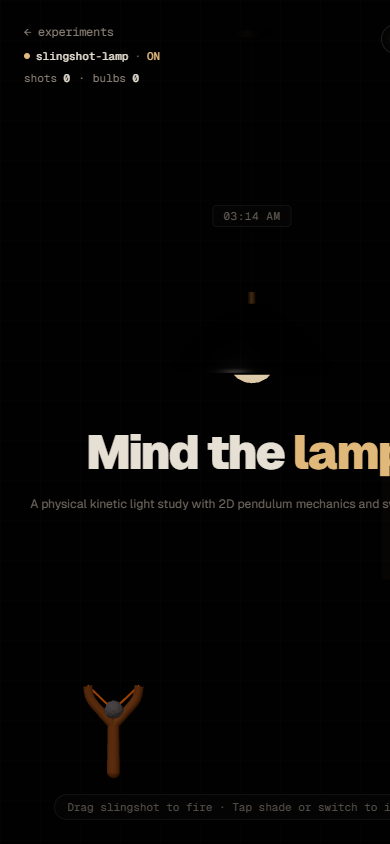
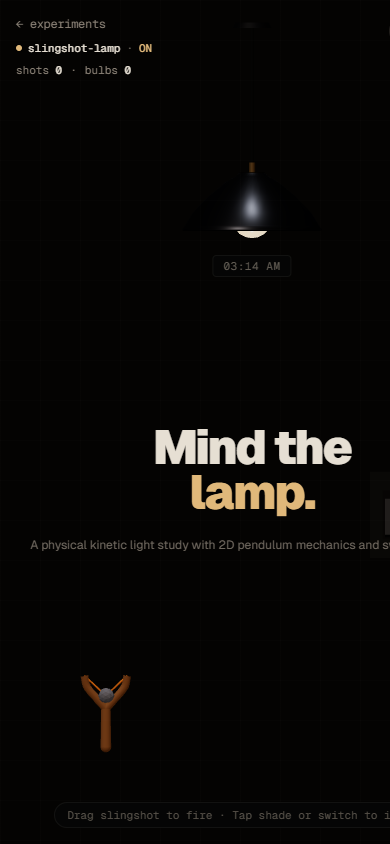
feat: add LampExperience and LampHUD components for interactive 3D lamp scene

diff --git a/src/components/lamp/LampExperience.tsx b/src/components/lamp/LampExperience.tsx
@@ -103,7 +103,7 @@ export const LampExperience: React.FC = () => {
       </div>
 
       {/* Bottom Monospace Interaction Instructions */}
-      <footer className="absolute inset-x-0 bottom-0 p-6 md:p-8 flex justify-center items-center pointer-events-none z-20 font-mono text-[11px] text-muted/60 text-center">
+      <footer className="absolute inset-x-0 bottom-0 p-4 sm:p-6 md:p-8 flex justify-center items-center pointer-events-none z-20 font-mono text-[11px] text-muted/60 text-center">
         <span className="px-3 py-1 rounded-full border border-muted/10 bg-bg/60 backdrop-blur-sm">
           <span className="hidden sm:inline">{COPY.hint.desktop}</span>
           <span className="sm:hidden">{COPY.hint.mobile}</span>

diff --git a/src/components/lamp/LampHUD.tsx b/src/components/lamp/LampHUD.tsx
@@ -23,7 +23,7 @@ export const LampHUD: React.FC<LampHUDProps> = ({ state, onToggleSound }) => {
   };
 
   return (
-    <header className="absolute inset-x-0 top-0 p-6 md:p-8 flex justify-between items-start pointer-events-none z-20 font-mono text-xs select-none">
+    <header className="absolute inset-x-0 top-0 p-4 sm:p-6 md:p-8 flex justify-between items-start pointer-events-none z-20 font-mono text-xs select-none">
       {/* Top Left Navigation and Status HUD */}
       <div className="space-y-2 pointer-events-auto">
         <Link
